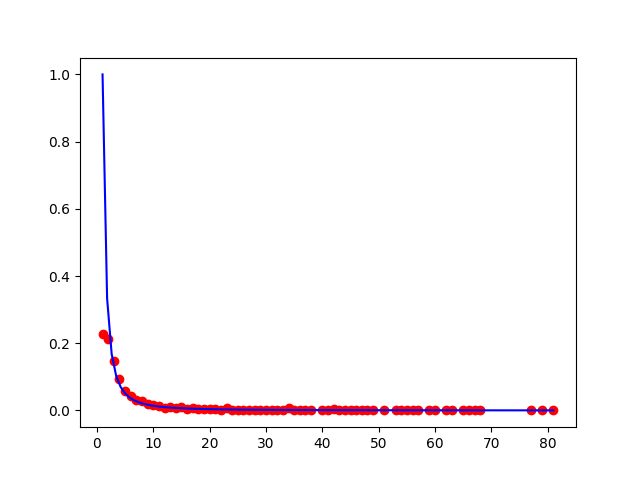
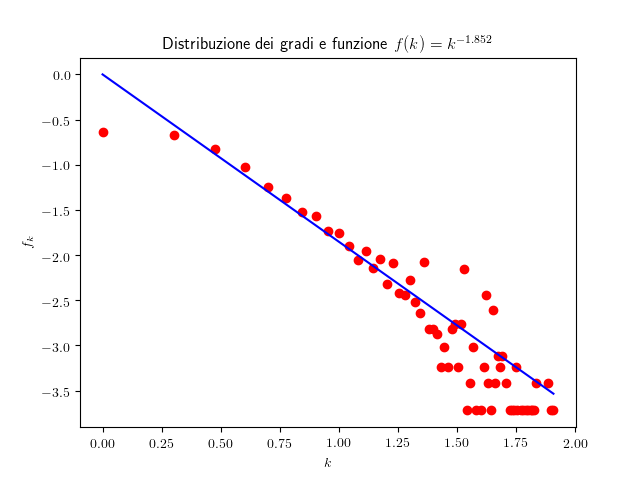
Powerlaw plotting axes label and title e img images deleted

diff --git a/graphanalysis/powerlaw.py b/graphanalysis/powerlaw.py
@@ -24,21 +24,37 @@ def get_powerlaw_distribution_alpha(g):
 
 
 def plot_degree_powerlaw_distribution(g, name: str, show=False):
+
+    plt.rc('text', usetex=True) # Text formatting with LaTeX
+
     # Degree frequencies
     fig = plt.figure()
     degree = pd.Series(get_node_degree(g))
     degree_count = degree.value_counts()
     degree_freq = {d: degree_count[d]/sum(degree_count) for d in degree_count.index}
-    xvalue = list(degree_freq.keys())
-    yvalue= list(degree_freq.values())
-    plt.plot(xvalue, yvalue, 'ro')
+    degree_x_value = list(degree_freq.keys())
+    degree_y_value= list(degree_freq.values())
+
+    degree_x_value = np.log10(degree_x_value)
+    degree_y_value = np.log10(degree_y_value)
+    plt.plot(degree_x_value, degree_y_value, 'ro')
 
     # Powerlaw distribution
     alpha = get_powerlaw_distribution_alpha(g)
-    print(min(degree_count.index), max(degree_count.index))
-    xvalue = np.linspace(min(degree_count.index), max(degree_count.index), 100)
-    yvalue = list(map(lambda x: x**(-alpha), xvalue))
-    plt.plot(xvalue, yvalue, 'b-')
+
+    pow_x_value = np.linspace(min(degree_count.index), max(degree_count.index), 100)
+    pow_y_value = list(map(lambda x: x**(-alpha), pow_x_value))
+
+    pow_x_value = np.log10(pow_x_value)
+    pow_y_value = np.log10(pow_y_value)
+    plt.plot(pow_x_value, pow_y_value, 'b-')
+
+    plt.xlabel(r"$k$")
+    plt.ylabel(r"$f_k$")
+    alpha_exponent = round(-alpha, 3)
+    plt.title(r'Distribuzione dei gradi e funzione $f(k) = k^{' + str(alpha_exponent) + r'}$')
+
     plt.savefig("resources/results/img/{}.png".format(name), dpi=fig.dpi)
+
     if show:
         plt.show()
